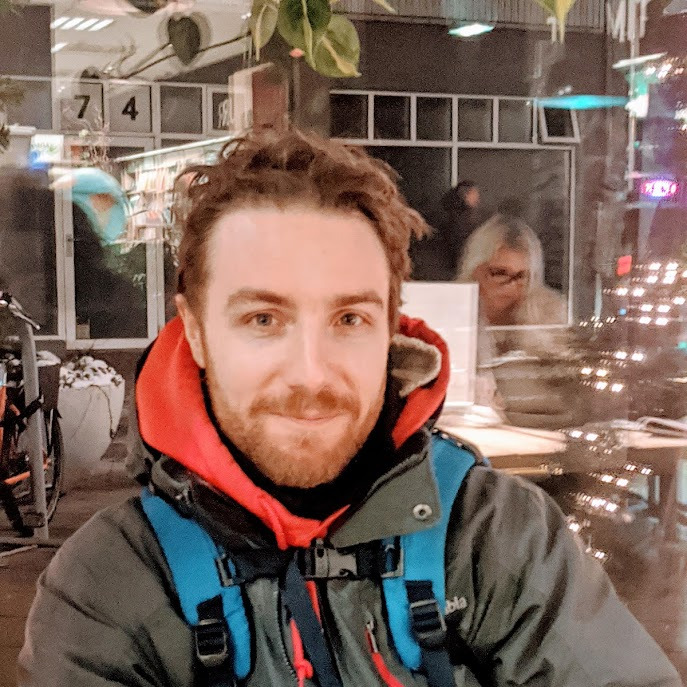
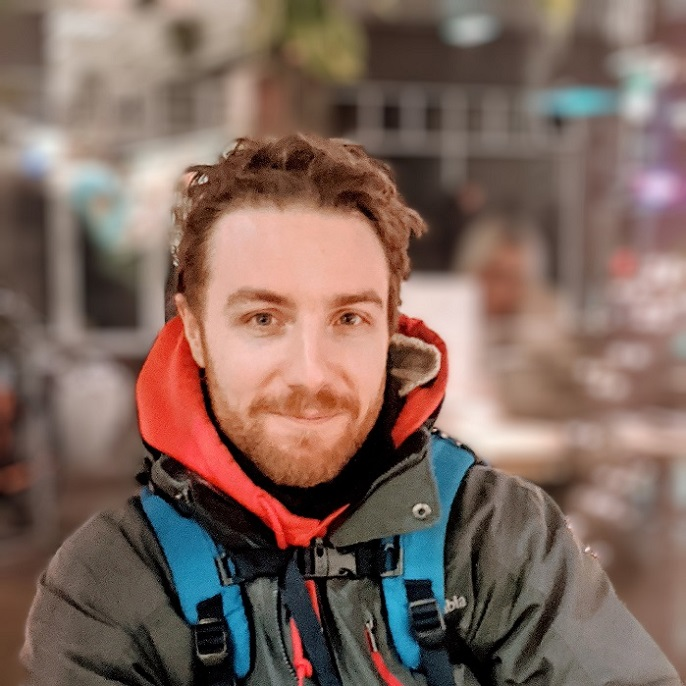
@people.html: add Reilly's part and update anthony's photo

Changed region(s): [[0.0, 0.0, 1.0, 0.8265], [0.9796, 0.9184, 1.0, 0.949]]

diff --git a/projects.html b/projects.html
@@ -1,0 +1,58 @@
+<!doctype html>
+<html lang="en">
+  <head>
+    <!-- Required meta tags -->
+    <meta charset="utf-8">
+    <meta name="viewport" content="width=device-width, initial-scale=1">
+
+    <!-- Bootstrap CSS -->
+    <link href="https://cdn.jsdelivr.net/npm/bootstrap@5.0.2/dist/css/bootstrap.min.css" rel="stylesheet" integrity="sha384-EVSTQN3/azprG1Anm3QDgpJLIm9Nao0Yz1ztcQTwFspd3yD65VohhpuuCOmLASjC" crossorigin="anonymous">
+    <link href="css/style.css" rel="stylesheet">
+
+    <title>TEALAB</title>
+  </head>
+  <body>
+    <div class="bg-seawolf">
+      <div class="container">
+        <div class="text-center text-white py-4 display-6"><strong>Theoretical and Experimental Algorithmics Lab (TEALab)</strong></div>
+      </div>
+    </div>
+    <nav class="navbar navbar-expand-lg navbar-dark bg-seawolf">
+      <div class="container px-5">
+        <button class="navbar-toggler" type="button" data-bs-toggle="collapse" data-bs-target="#navbarNavDropdown" aria-controls="navbarNavDropdown" aria-expanded="false" aria-label="Toggle navigation">
+          <span class="navbar-toggler-icon"></span>
+        </button>
+        <div class="collapse navbar-collapse" id="navbarNavDropdown">
+          <ul class="navbar-nav mx-auto">
+            <li class="nav-item">
+              <a class="nav-link" aria-current="page" href="index.html">Home</a>
+            </li>
+            <li class="nav-item">
+              <a class="nav-link" href="people.html">People</a>
+            </li>
+            <li class="nav-item">
+              <a class="nav-link active" href="projects.html">Projects</a>
+            </li>
+            <li class="nav-item">
+              <a class="nav-link" href="publications.html">Publications</a>
+            </li>
+            <li class="nav-item">
+              <a class="nav-link" href="#">Opportunities</a>
+            </li>
+            <li class="nav-item">
+              <a class="nav-link" href="#">Contact</a>
+            </li>
+          </ul>
+        </div>
+      </div>
+    </nav>
+
+    <body>
+
+    <footer class="footer bg-seawolf">
+      <div class="container height-bottom">
+      </div>
+    </footer>
+    <script src="https://cdn.jsdelivr.net/npm/bootstrap@5.1.0/dist/js/bootstrap.bundle.min.js" integrity="sha384-U1DAWAznBHeqEIlVSCgzq+c9gqGAJn5c/t99JyeKa9xxaYpSvHU5awsuZVVFIhvj" crossorigin="anonymous"></script>
+  </body>
+</html>

diff --git a/people.html b/people.html
@@ -171,13 +171,19 @@
 
         <div class="row px-5 pt-2">
           <div class="col-12 col-sm-4 col-md-4 col-lg-3 col-xl-2 p-1">
-            <img src="img/.jpg" class="img-fluid h-100" alt="...">
+            <img src="img/reibro.png" class="img-fluid h-100" alt="...">
           </div>
           <div class="col-12 col-sm-8 col-md-4 col-lg-9 col-xl-10 p-3">
             <a class="text-dark namelink" href="https://vwslz.github.io/">
               <h4><b>Reilly Browne <i class="fas fa-link"></i></b></h4>
             </a>
-            <p class="card-text">Some text here.</p>
+            <p class="card-text">
+              Current Year: 3rd
+              <br>
+              Research Interest: computational geometry, parallel programming, combinatorial optimization
+              <br>
+              Research Focus: comparing optimal parallel algorithms from the Binary Forking and PRAM models
+            </p>
           </div>
         </div>
 
